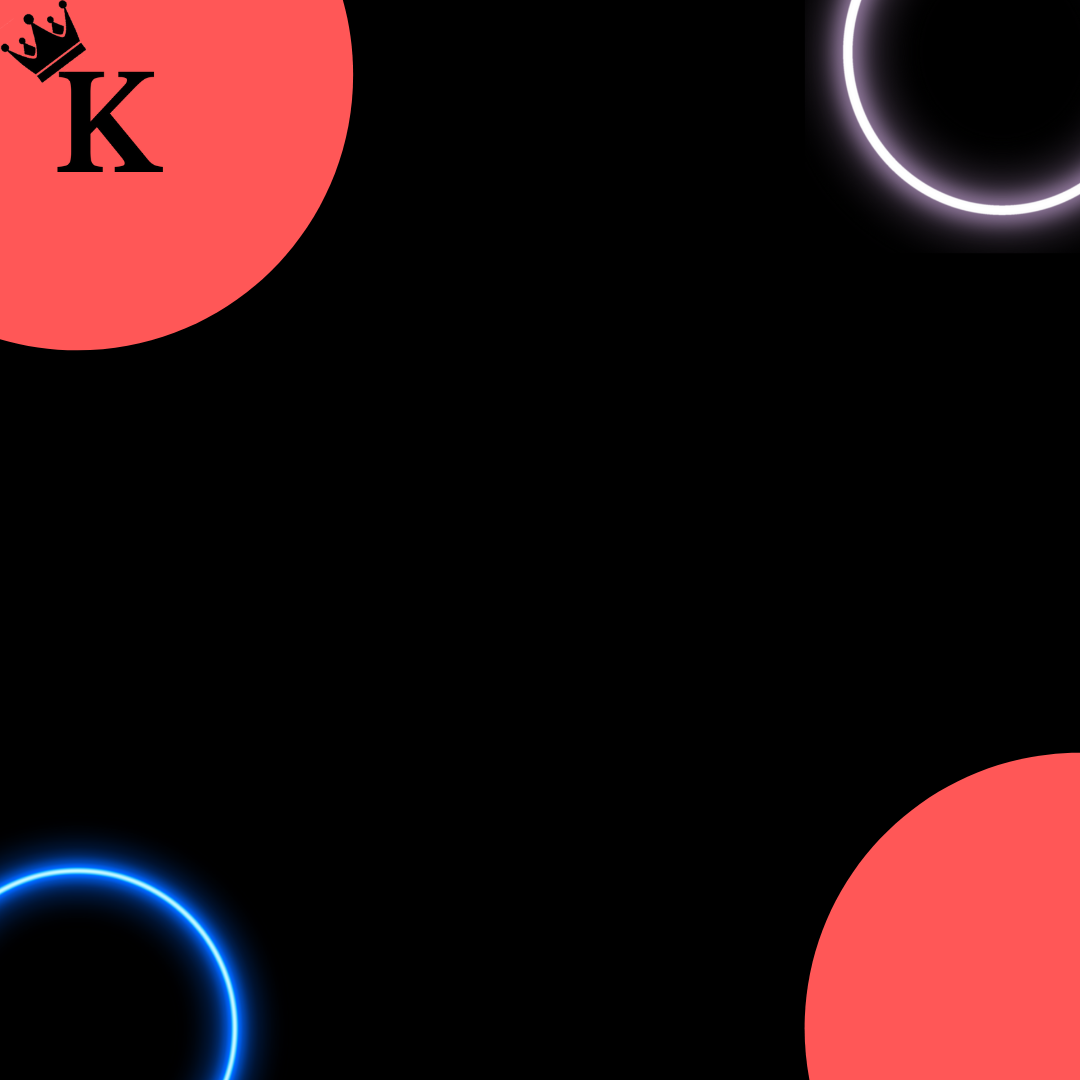
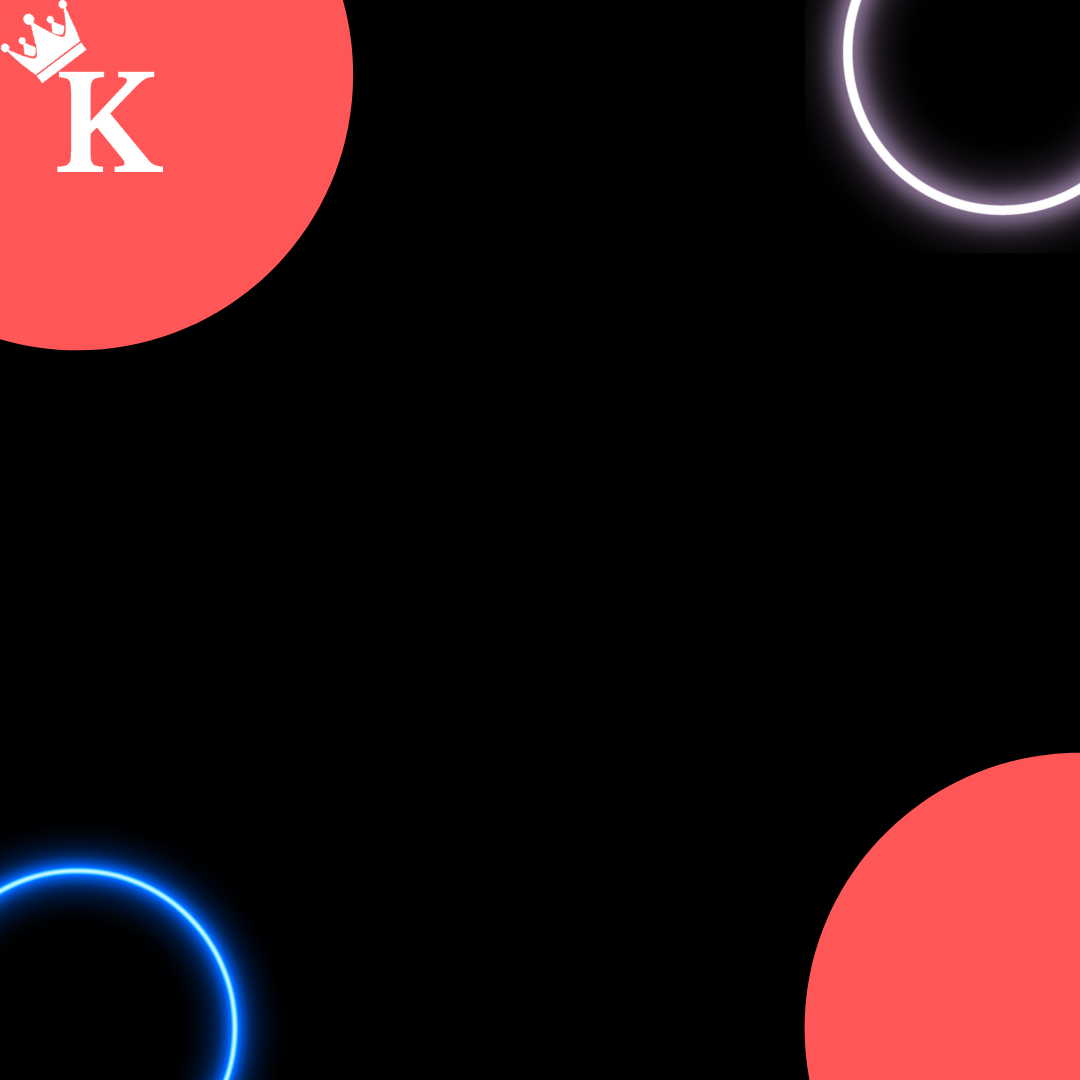
Dark Mode login

Changed region(s): [[0.0, 0.0, 0.1528, 0.1833]]

diff --git a/public/estilo.css b/public/estilo.css
@@ -17,6 +17,9 @@
   /*localizacao*/
   --localizacao-bg: url(/img/Wallpaper_Branco.png);
   --localizacao-rgba: rgba(130, 130, 130, 0.5);
+
+  /*login*/
+  --login-bg: url(/img/login_branco.png);
 }
 
 .dark-mode:root {
@@ -36,9 +39,12 @@
   --comentarios-color: grey;
   --border-img-comentarios: darkgray;
 
-    /*localizacao*/
-    --localizacao-bg: url(/img/Wallpaper_Preto.png);
-    --localizacao-rgba: rgba(0, 0, 0, 0.6);
+  /*localizacao*/
+  --localizacao-bg: url(/img/Wallpaper_Preto.png);
+  --localizacao-rgba: rgba(0, 0, 0, 0.6);
+
+  /*login*/
+  --login-bg: url(/img/login_preto.png);
 }
 
 
@@ -791,20 +797,24 @@ input[type=number] {
   width: 80%;
   height: 80vh;
   display: flex;
-  box-shadow: 5px 5px 10px rgba(0, 0, 0, 0.212);
+  box-shadow: 4px 4px 20px 15px rgb(0 0 0 / 21%);
   margin: 40px;
   margin-left: 10%;
+  color: var(--text-color);
+  border-radius: 20px;
 }
 
 .login_img {
+  content: var(--parallax-logo);
   width: 50%;
   display: flex;
   justify-content: center;
   align-items: center;
   background-color: white;
-  background-image: url(/img/login_branco.png);
+  background-image: var(--login-bg);
   background-size: cover;
   padding: 1rem;
+  border-radius: 20px 0 0 20px;
 }
 
 .login_img img {
@@ -817,12 +827,13 @@ input[type=number] {
   flex-direction: column;
   justify-content: center;
   align-items: center;
-  background-color: #fff;
+  background-color: var(--box-bg);
   padding: 3rem;
+  border-radius: 0 20px 20px 0;
 }
 
 .login_header {
-  margin-bottom: 3rem;
+  margin-bottom: 2rem;
   display: flex;
   justify-content: space-between;
 }
@@ -891,9 +902,10 @@ input[type=number] {
 }
 
 .input_box label{
+  margin-bottom: 5px;
   font-size: 0.75rem;
   font-weight: 600;
-  color: #000000c0;
+  color: var(--text-color);
 }
 
 .input_box input::placeholder {
@@ -902,7 +914,7 @@ input[type=number] {
 
 .registrar button {
   width: 100%;
-  margin-top: 2.5rem;
+  margin-top: 2rem;
   border: none;
   background-color: #6c63ff;
   padding: 0.62rem;

diff --git a/app/Views/login_register.php b/app/Views/login_register.php
@@ -4,7 +4,7 @@
 
 <div class="container_login">
     <div class="login_img">
-        <img src="/img/icon_preto.png" alt="">
+        <img alt="">
     </div>
     <div class="login_form">
         <form action="/Home/autenticar" method="post">

diff --git a/app/Views/register_login.php b/app/Views/register_login.php
@@ -4,7 +4,7 @@
 
 <div class="container_login">
     <div class="login_img">
-        <img src="/img/icon_preto.png" alt="">
+        <img alt="">
     </div>
     <div class="login_form">
         <form action="">
